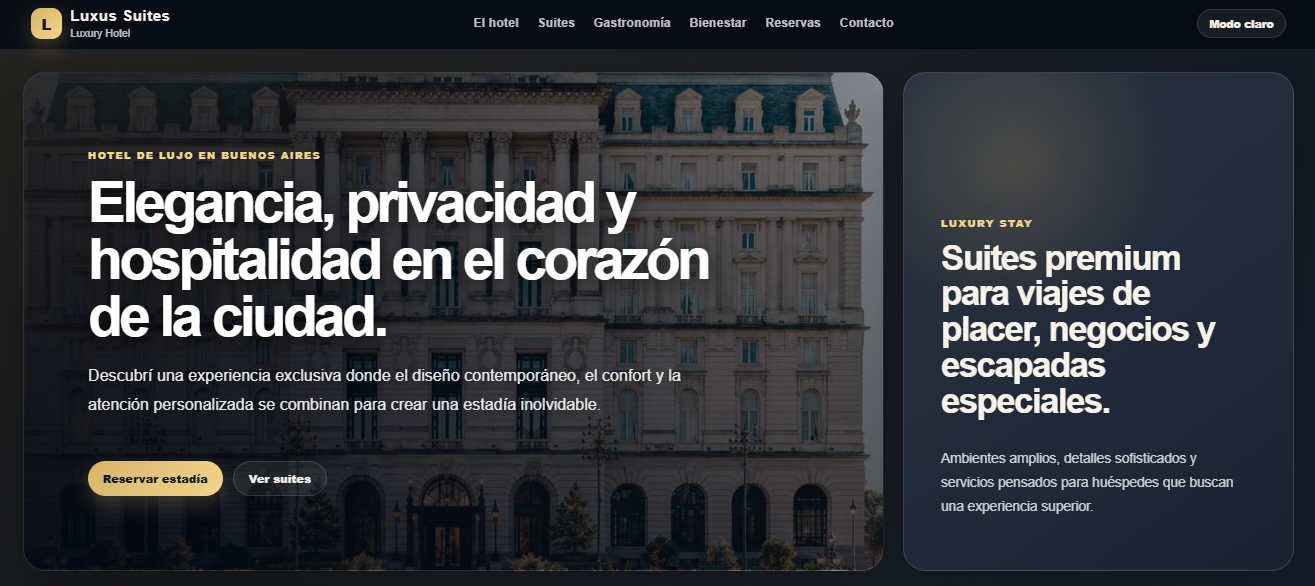
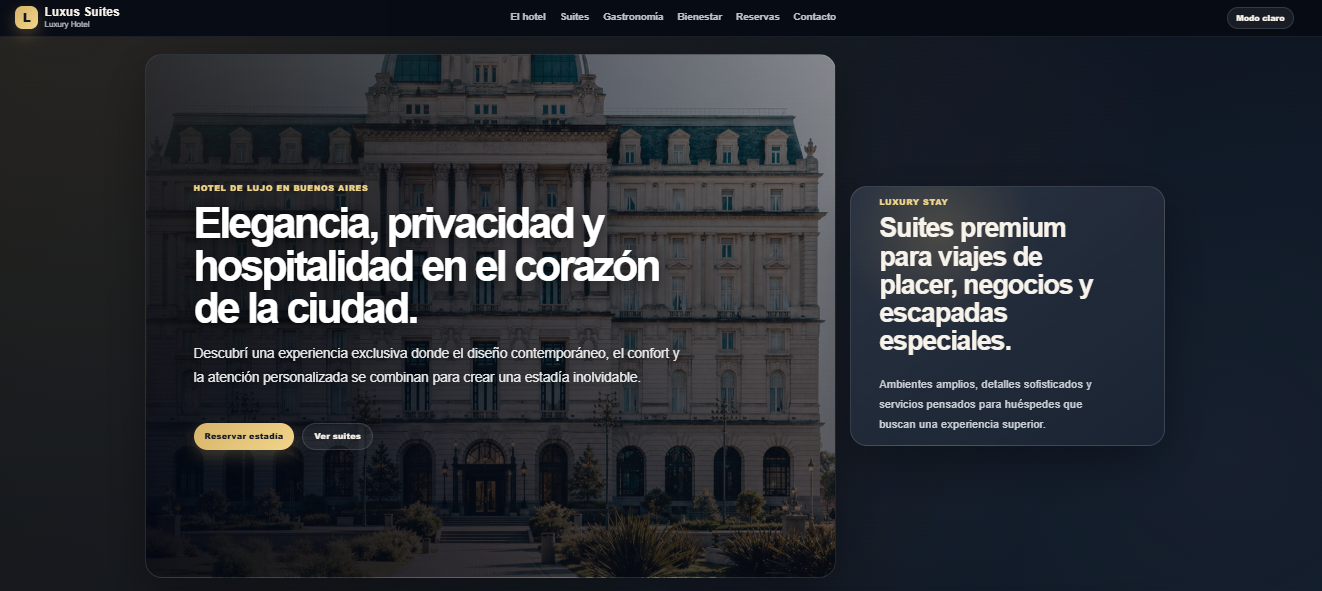
Ajustar tarjeta principal de landing

diff --git a/src/main/resources/static/css/styles.css b/src/main/resources/static/css/styles.css
@@ -3322,3 +3322,25 @@ body.hotel-landing .hotel-faq-list p {
         text-align: center !important;
     }
 }
+
+
+/* ================================
+   HERO SIDE CARD BALANCE
+   Ajusta la tarjeta "Luxury stay"
+================================ */
+
+body.hotel-landing .hotel-hero-panel {
+    align-self: center;
+    min-height: 420px;
+    max-height: 520px;
+    justify-content: center;
+}
+
+body.hotel-landing .hotel-hero-panel h3 {
+    margin-top: 14px;
+    margin-bottom: 18px;
+}
+
+body.hotel-landing .hotel-hero-panel p {
+    margin-bottom: 0;
+}